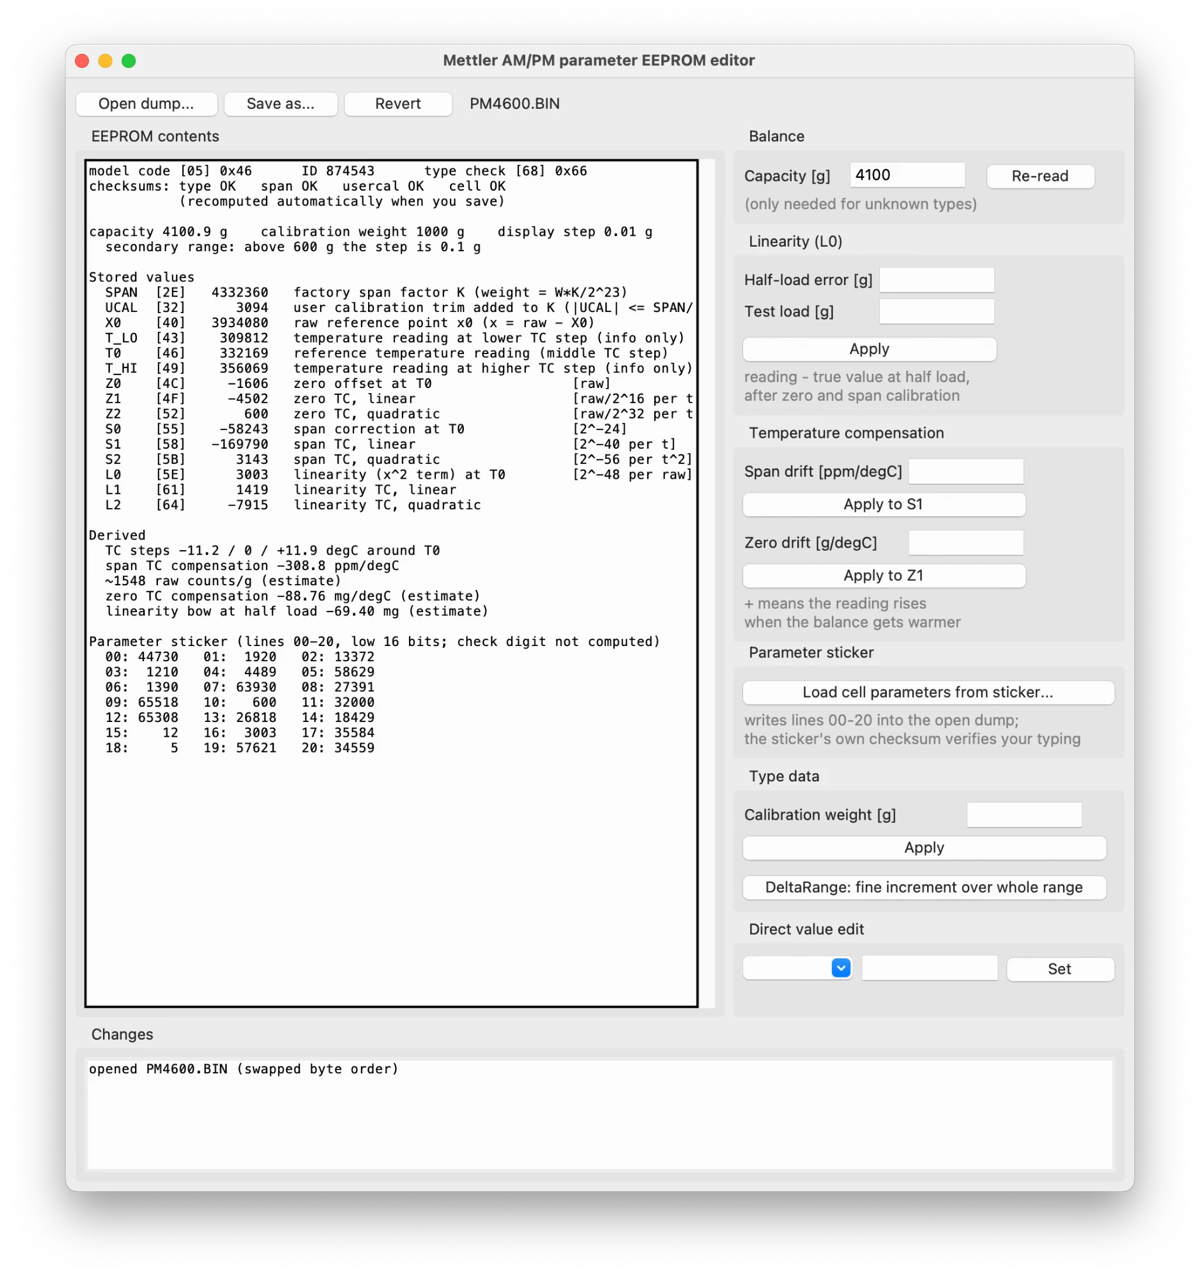
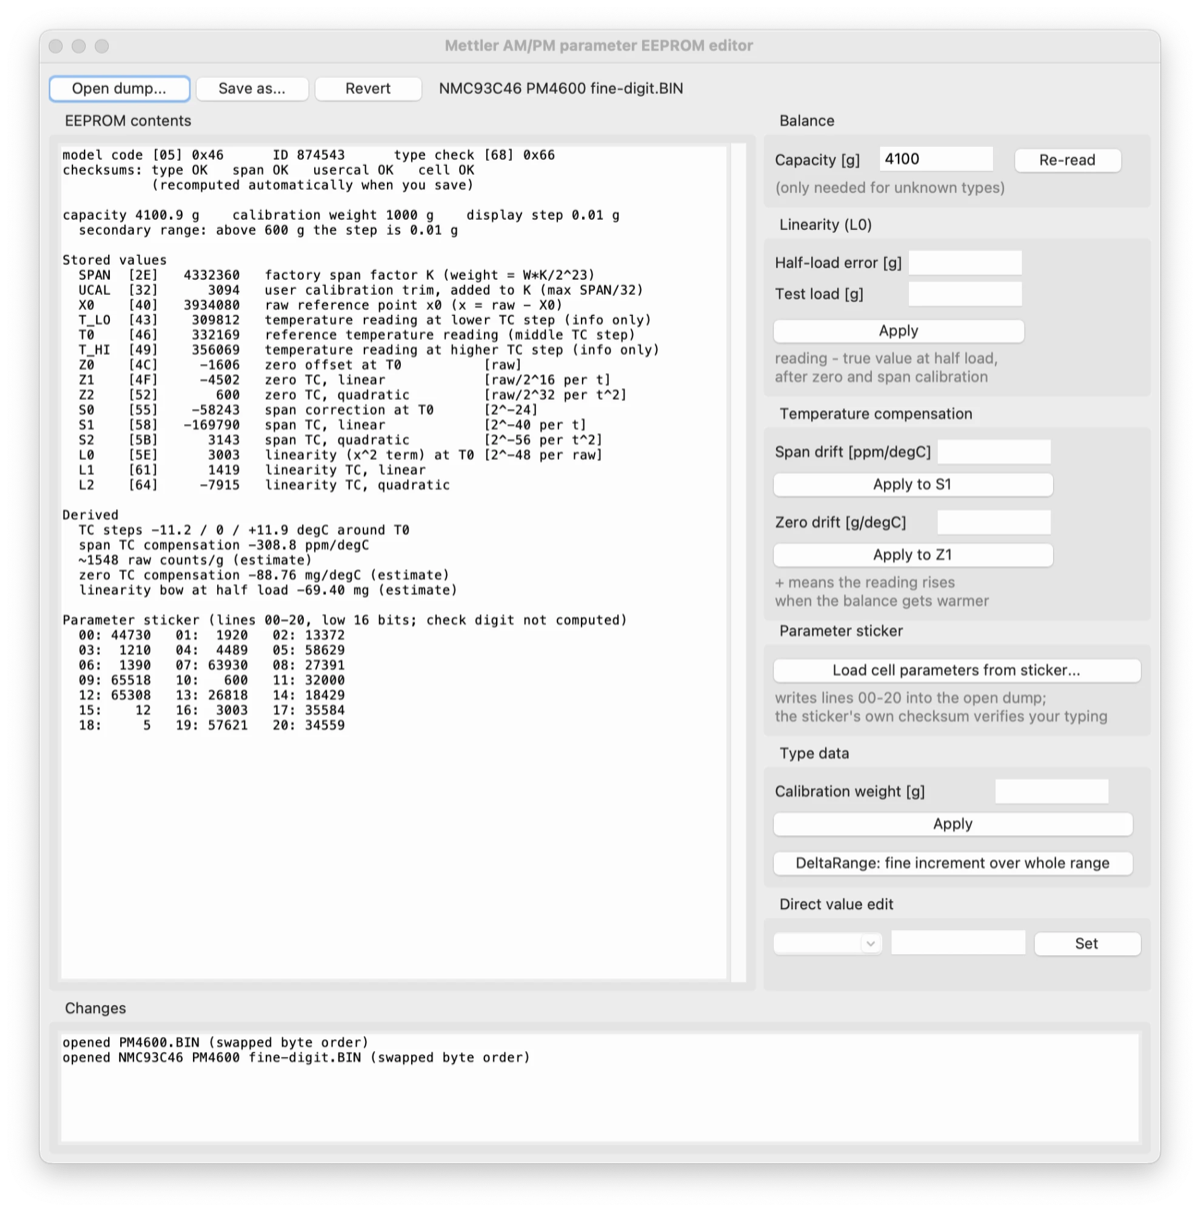
Replace the GUI screenshot with one taken after the layout fix
No clipped descriptions, and it shows a PM4600 with the DeltaRange increment
already changed, which the caption explains.

Changed region(s): [[0.0308, 0.0305, 0.9558, 0.9769], [0.925, 0.6106, 0.9558, 0.6411]]

diff --git a/README.md b/README.md
@@ -71,6 +71,10 @@ python3 tools/pm_eeprom_gui.py            # or drop a dump on it: ... gui.py myd
 
 ![The EEPROM editor with a PM4600 dump loaded](docs/gui.png)
 
+*A PM4600 whose DeltaRange limit has already been changed: the secondary range at 600 g is
+still there, but its increment now equals the base one, so the balance shows 10 mg over the
+whole weighing range.*
+
 Open a dump, and the left pane shows everything the balance stores. The right-hand panels apply the
 corrections; each one writes a line into the change log so you can see exactly what moved. Nothing is
 written to disk until you press *Save as...*, and *Revert* takes you back to the file as opened.
